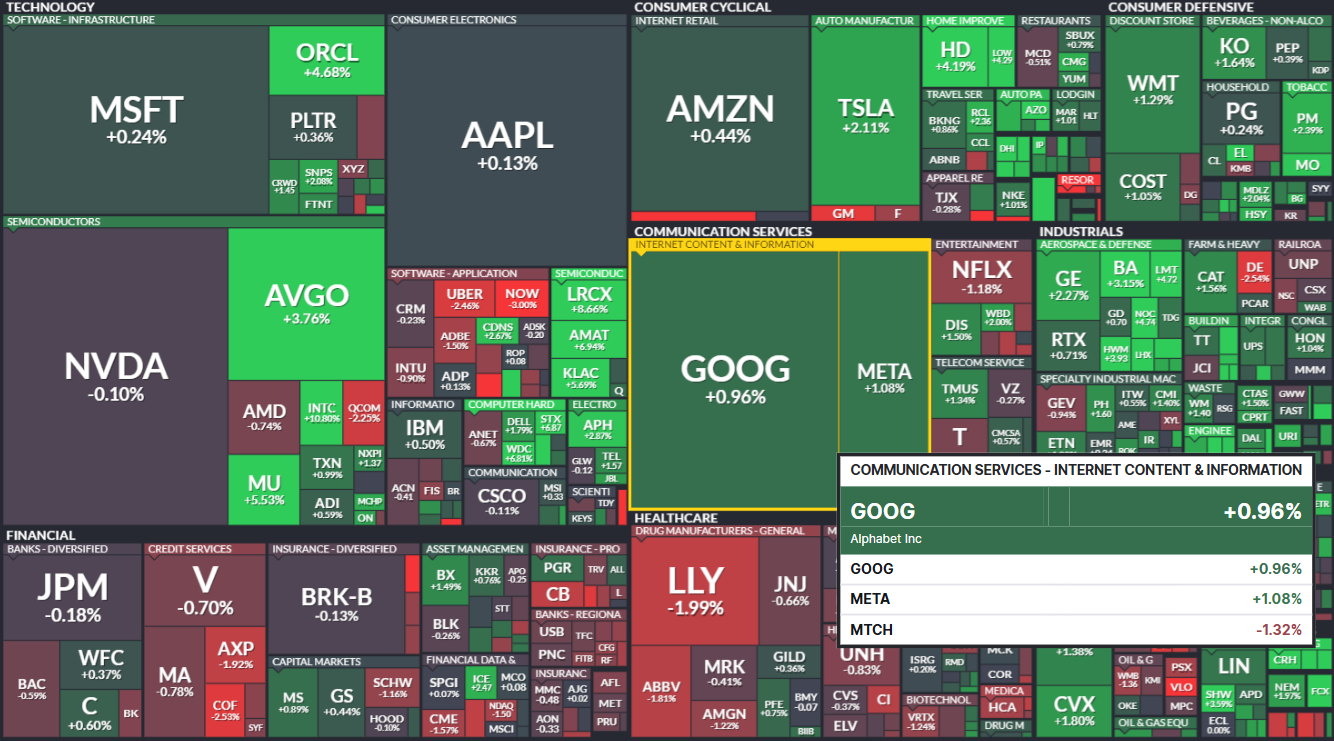
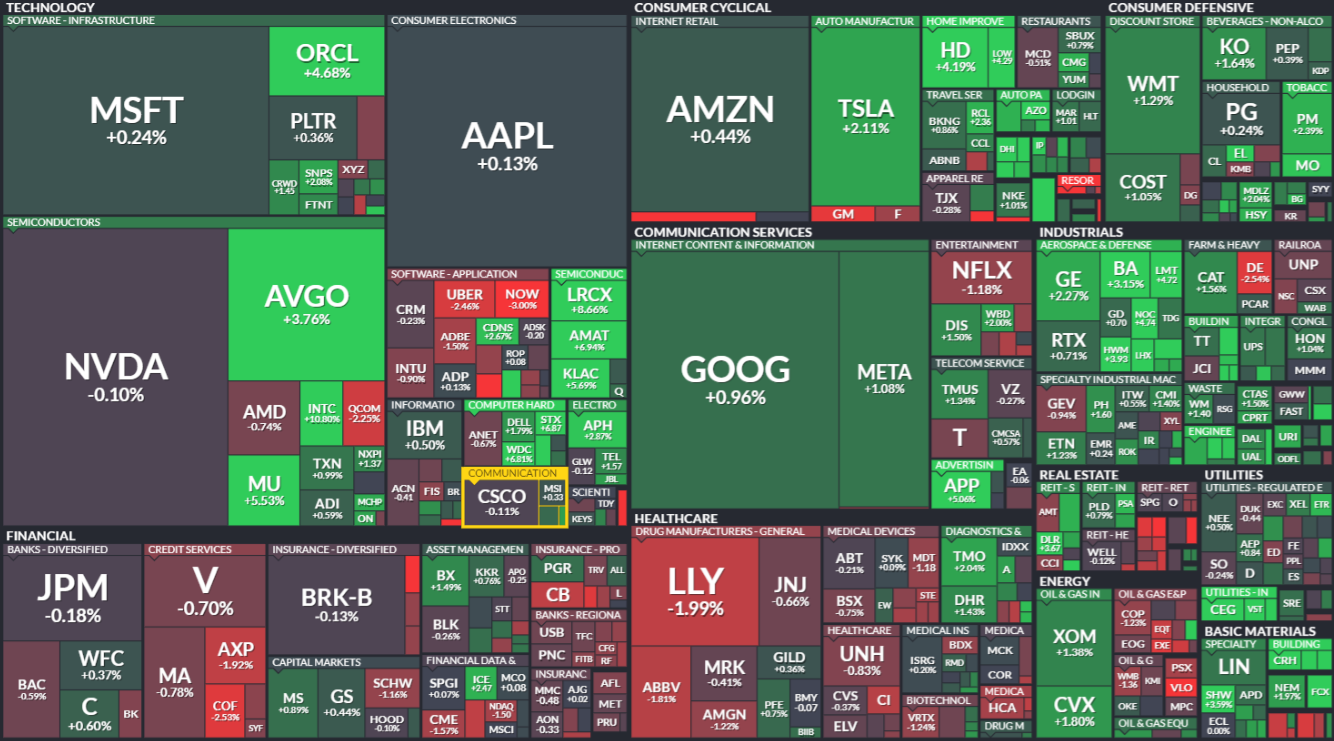
fix:capture_canvas

diff --git a/skills/finviz-map/scripts/capture_canvas.py b/skills/finviz-map/scripts/capture_canvas.py
@@ -127,6 +127,62 @@ def capture_finviz_canvas(map_type="sec", output_path="spy.png"):
         driver.execute_script("arguments[0].scrollIntoView(true);", canvas)
         time.sleep(2)
 
+        # Clear any hover effects and tooltips
+        print("🧹 Clearing hover effects and tooltips...")
+
+        # Aggressively hide all overlay elements with JavaScript
+        driver.execute_script("""
+            // Remove all absolute/fixed positioned elements that might be tooltips
+            const allElements = document.querySelectorAll('*');
+            allElements.forEach(el => {
+                const style = window.getComputedStyle(el);
+                const position = style.position;
+                const zIndex = parseInt(style.zIndex) || 0;
+
+                // Hide high z-index elements (likely popups/tooltips)
+                if (zIndex > 100) {
+                    el.style.display = 'none';
+                }
+
+                // Hide elements with tooltip-like properties
+                if (position === 'absolute' || position === 'fixed') {
+                    const classes = el.className.toString().toLowerCase();
+                    const id = el.id.toString().toLowerCase();
+                    if (classes.includes('tooltip') || classes.includes('popup') ||
+                        classes.includes('info') || classes.includes('detail') ||
+                        id.includes('tooltip') || id.includes('popup')) {
+                        el.style.display = 'none';
+                    }
+                }
+            });
+
+            // Also try to trigger mouseout events on canvas
+            const canvas = document.querySelector('canvas');
+            if (canvas) {
+                const event = new MouseEvent('mouseout', {
+                    view: window,
+                    bubbles: true,
+                    cancelable: true
+                });
+                canvas.dispatchEvent(event);
+            }
+        """)
+        time.sleep(2)
+
+        # Move mouse completely off the canvas area
+        from selenium.webdriver.common.action_chains import ActionChains
+        actions = ActionChains(driver)
+        # Move to page header (far from canvas)
+        try:
+            header = driver.find_element(By.TAG_NAME, "header")
+            actions.move_to_element(header).perform()
+        except:
+            # If no header, move to top-left
+            body = driver.find_element(By.TAG_NAME, "body")
+            actions.move_to_element_with_offset(body, 5, 5).perform()
+
+        time.sleep(2)
+
         # Get canvas screenshot
         print("📸 Capturing canvas screenshot...")
         
